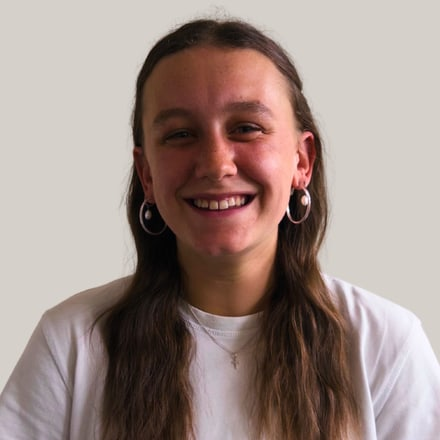
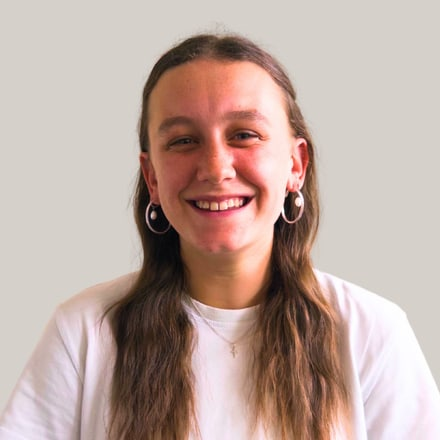
Students: two-column community groups, integrate Abi byline, tweaks
- Community Groups: move John & Lou's photo to the right of the text and
  CTA (two-column) instead of stacked/centred.
- Welcome: reintegrate Abi as a natural contact byline within the text
  (hairline divider, avatar, name/role, Message Abi) instead of a floating
  card; use the clearer headshot Abi supplied.
- Hero "Get in touch" now emails abi.hutchings@hopewinchester.org.

Claude-Session: https://claude.ai/code/session_017CLqbdnCD1PBAZn9zq6GB2

diff --git a/Hope Church Homepage Redesign/students.html b/Hope Church Homepage Redesign/students.html
@@ -85,7 +85,7 @@ a:hover{color:#0D1B3E}
     <p style="max-width: 600px; margin: 30px 0px 34px; font-size: 22px; line-height: 1.65; color: rgba(255, 255, 255, 0.88);">Every Friday evening during term time we meet at Hope Church — and we'd love you to join us.</p>
     <div style="display: flex; gap: 12px; flex-wrap: wrap;">
       <a href="https://www.instagram.com/hopewinchesterstudents/" target="_blank" rel="noopener noreferrer" class="scp0" style="background: rgb(255, 255, 255); color: rgb(13, 27, 62); padding: 16px 32px; border-radius: 999px; font-family: Inter; font-size: 18px; font-weight: 600; display: inline-flex; align-items: center; gap: 9px;"><svg width="19" height="19" viewBox="0 0 24 24" fill="none" stroke="#0D1B3E" stroke-width="1.7"><rect x="3" y="3" width="18" height="18" rx="5"></rect><circle cx="12" cy="12" r="4"></circle><circle cx="17.5" cy="6.5" r="1" fill="#0D1B3E" stroke="none"></circle></svg>Follow us</a>
-      <a href="#connect" class="scp1" style="background: transparent; color: rgb(255, 255, 255); padding: 15px 32px; border-radius: 999px; font-family: Inter; font-size: 18px; font-weight: 600; border: 1.5px solid rgba(255, 255, 255, 0.45);">Get in touch</a>
+      <a href="mailto:abi.hutchings@hopewinchester.org?subject=Hope%20Students" class="scp1" style="background: transparent; color: rgb(255, 255, 255); padding: 15px 32px; border-radius: 999px; font-family: Inter; font-size: 18px; font-weight: 600; border: 1.5px solid rgba(255, 255, 255, 0.45);">Get in touch</a>
     </div>
   </div></section><section style="background: rgb(63, 92, 170); padding: clamp(30px, 4vw, 44px) 40px;">
   <div data-grid3="" style="max-width: 1120px; margin: 0px auto; display: grid; grid-template-columns: repeat(3, 1fr); gap: 28px;">
@@ -109,19 +109,17 @@ a:hover{color:#0D1B3E}
       <p style="font-size: 20px; line-height: 1.7; color: rgb(91, 89, 85); margin-bottom: 18px;">Join our student community at Hope Church as we grow in faith, do life and journey with Jesus together. Whether you're at Winchester University, Winchester School of Art or Sparsholt — or you're not studying but are student-aged — we'd love you to come along.</p>
       <p style="font-size: 20px; line-height: 1.7; color: rgb(91, 89, 85);">Fridays are filled with games, worship, teaching and much more. However you find us, you'll find a warm welcome.</p>
       <a href="https://www.instagram.com/hopewinchesterstudents/" target="_blank" rel="noopener noreferrer" class="lift" style="margin-top: 30px; display: inline-flex; align-items: center; gap: 10px; background: rgb(13, 27, 62); color: rgb(255, 255, 255); padding: 15px 32px; border-radius: 999px; font-family: Inter; font-size: 17px; font-weight: 600;">Learn more<svg width="18" height="18" viewBox="0 0 24 24" fill="none" stroke="#fff" stroke-width="2" stroke-linecap="round" stroke-linejoin="round"><line x1="5" y1="12" x2="19" y2="12"></line><polyline points="12 5 19 12 12 19"></polyline></svg></a>
-    </div>
-    <div data-reveal="" style="border-radius: 20px; overflow: hidden; aspect-ratio: 4 / 5; opacity: 1; transform: none;"><picture><source type="image/webp" srcset="assets/students/students-welcome.webp"><img src="assets/students/students-welcome.jpg" alt="Students gathering over food together outdoors" style="width: 100%; height: 100%; object-fit: cover;" loading="lazy" decoding="async"></picture></div>
-  </div>
-    <div data-reveal="" style="max-width: 1200px; margin: 52px auto 0px; opacity: 1; transform: none;">
-      <div style="background: rgb(255, 255, 255); border: 1px solid rgba(35, 34, 32, 0.1); border-radius: 18px; padding: 26px 30px; display: flex; gap: 24px; align-items: center; max-width: 560px;">
-        <picture><source type="image/webp" srcset="assets/students/abi.webp"><img src="assets/students/abi.jpg" alt="Abi Hutchings" style="width: 108px; height: 108px; border-radius: 999px; object-fit: cover; flex-shrink: 0; background: rgb(244, 235, 225);" loading="lazy" decoding="async"></picture>
+      <div style="margin-top: 38px; padding-top: 28px; border-top: 1px solid rgba(35, 34, 32, 0.14); display: flex; align-items: center; gap: 18px;">
+        <picture><source type="image/webp" srcset="assets/students/abi.webp"><img src="assets/students/abi.jpg" alt="Abi Hutchings" style="width: 68px; height: 68px; border-radius: 999px; object-fit: cover; flex-shrink: 0;" loading="lazy" decoding="async"></picture>
         <div>
-          <h3 style="font-family: Inter; font-weight: 500; font-size: 23px; color: rgb(13, 27, 62); margin-bottom: 5px;">Abi Hutchings</h3>
-          <div style="font-family: Inter; font-size: 14px; font-weight: 600; letter-spacing: 0.06em; text-transform: uppercase; color: rgb(63, 92, 170); margin-bottom: 12px;">Communications &amp; Student Ministry Assistant</div>
-          <a href="mailto:abi.hutchings@hopewinchester.org?subject=Hope%20Students%20enquiry" class="scp2" style="font-family: Inter; font-size: 16px; font-weight: 600; color: rgb(63, 92, 170); display: inline-flex; gap: 6px;">Message Abi →</a>
+          <div style="font-family: Inter; font-size: 18px; font-weight: 600; color: rgb(13, 27, 62); line-height: 1.2;">Abi Hutchings</div>
+          <div style="font-family: Inter; font-size: 14px; color: rgb(91, 89, 85); margin: 3px 0px 7px;">Communications &amp; Student Ministry Assistant</div>
+          <a href="mailto:abi.hutchings@hopewinchester.org?subject=Hope%20Students%20enquiry" class="scp2" style="font-family: Inter; font-size: 15px; font-weight: 600; color: rgb(63, 92, 170); display: inline-flex; gap: 6px;">Message Abi →</a>
         </div>
       </div>
     </div>
+    <div data-reveal="" style="border-radius: 20px; overflow: hidden; aspect-ratio: 4 / 5; opacity: 1; transform: none;"><picture><source type="image/webp" srcset="assets/students/students-welcome.webp"><img src="assets/students/students-welcome.jpg" alt="Students gathering over food together outdoors" style="width: 100%; height: 100%; object-fit: cover;" loading="lazy" decoding="async"></picture></div>
+  </div>
   </section><section style="background: rgb(13, 27, 62); padding: clamp(72px, 10vw, 116px) 40px;">
   <div style="max-width: 1280px; margin: 0px auto;">
     <div data-reveal="" style="max-width: 720px; margin-bottom: 48px; opacity: 1; transform: none;">
@@ -175,17 +173,19 @@ a:hover{color:#0D1B3E}
     </div>
     <div data-reveal="" style="text-align: center; margin-top: 46px; opacity: 1; transform: none;"><a href="whats-on.html" class="lift" style="display: inline-flex; align-items: center; gap: 10px; background: rgb(255, 255, 255); color: rgb(13, 27, 62); padding: 15px 34px; border-radius: 999px; font-family: Inter; font-size: 17px; font-weight: 600;">See the full church calendar<svg width="18" height="18" viewBox="0 0 24 24" fill="none" stroke="#0D1B3E" stroke-width="2" stroke-linecap="round" stroke-linejoin="round"><line x1="5" y1="12" x2="19" y2="12"></line><polyline points="12 5 19 12 12 19"></polyline></svg></a></div>
   </div></section><section style="background: rgb(63, 92, 170); padding: clamp(72px, 10vw, 116px) 40px;">
-  <div data-reveal="" style="max-width: 820px; margin: 0px auto; text-align: center; opacity: 1; transform: none;">
-    <div style="font-family: Inter; font-size: 15px; font-weight: 600; letter-spacing: 0.2em; text-transform: uppercase; color: rgba(255, 255, 255, 0.8); margin-bottom: 18px;">Community Groups</div>
-    <h2 style="font-family: Inter; font-weight: 200; font-size: clamp(34px, 4.6vw, 56px); line-height: 0.98; letter-spacing: -0.03em; color: rgb(255, 255, 255); margin-bottom: 24px;">A home away from home</h2>
-    <p style="font-family: Inter; font-size: 20px; line-height: 1.65; color: rgba(255, 255, 255, 0.85); margin-bottom: 36px;">Fridays aren't the only way to belong. Right across the city, our Community Groups meet through the week to share meals, pray and open the Bible together. They're a brilliant way to do life with people of all ages and life stages — a wider church family who'll know you, cheer you on and support you while you're away from home.</p>
-    <div style="max-width: 300px; margin: 0px auto 30px;">
-      <div style="border-radius: 18px; overflow: hidden; aspect-ratio: 3 / 2; box-shadow: rgba(9, 16, 36, 0.35) 0px 18px 40px -20px;"><picture><source type="image/webp" srcset="assets/team/john-lou.webp"><img src="assets/team/john-lou.jpg" alt="John and Lou Crossland" style="width: 100%; height: 100%; object-fit: cover;" loading="lazy" decoding="async"></picture></div>
-      <div style="font-family: Inter; font-size: 15px; font-weight: 600; color: rgb(255, 255, 255); margin-top: 14px;">John &amp; Lou Crossland</div>
-      <div style="font-family: Inter; font-size: 14px; color: rgba(255, 255, 255, 0.72);">They oversee our Community Groups</div>
+  <div data-reveal="" data-grid2="" style="max-width: 1080px; margin: 0px auto; display: grid; grid-template-columns: 1.05fr 0.95fr; gap: clamp(40px, 6vw, 72px); align-items: center; opacity: 1; transform: none;">
+    <div>
+      <div style="font-family: Inter; font-size: 15px; font-weight: 600; letter-spacing: 0.2em; text-transform: uppercase; color: rgba(255, 255, 255, 0.8); margin-bottom: 18px;">Community Groups</div>
+      <h2 style="font-family: Inter; font-weight: 200; font-size: clamp(34px, 4.6vw, 54px); line-height: 0.98; letter-spacing: -0.03em; color: rgb(255, 255, 255); margin-bottom: 22px;">A home away from home</h2>
+      <p style="font-family: Inter; font-size: 20px; line-height: 1.65; color: rgba(255, 255, 255, 0.85); margin-bottom: 32px; max-width: 48ch;">Fridays aren't the only way to belong. Right across the city, our Community Groups meet through the week to share meals, pray and open the Bible together. They're a brilliant way to do life with people of all ages and life stages — a wider church family who'll know you, cheer you on and support you while you're away from home.</p>
+      <a href="mailto:communitygroups@hopewinchester.org" class="lift" style="align-self: flex-start; display: inline-flex; align-items: center; gap: 10px; background: rgb(255, 255, 255); color: rgb(13, 27, 62); padding: 15px 32px; border-radius: 999px; font-family: Inter; font-size: 17px; font-weight: 600;">Reach out to John &amp; Lou<svg width="18" height="18" viewBox="0 0 24 24" fill="none" stroke="#0D1B3E" stroke-width="2" stroke-linecap="round" stroke-linejoin="round"><line x1="5" y1="12" x2="19" y2="12"></line><polyline points="12 5 19 12 12 19"></polyline></svg></a>
+      <div style="font-family: Inter; font-size: 15px; color: rgba(255, 255, 255, 0.7); margin-top: 16px;">They'll help you find the Community Groups local to your area.</div>
     </div>
-    <a href="mailto:communitygroups@hopewinchester.org" class="lift" style="display: inline-flex; align-items: center; gap: 10px; background: rgb(255, 255, 255); color: rgb(13, 27, 62); padding: 15px 32px; border-radius: 999px; font-family: Inter; font-size: 17px; font-weight: 600;">Reach out to John &amp; Lou<svg width="18" height="18" viewBox="0 0 24 24" fill="none" stroke="#0D1B3E" stroke-width="2" stroke-linecap="round" stroke-linejoin="round"><line x1="5" y1="12" x2="19" y2="12"></line><polyline points="12 5 19 12 12 19"></polyline></svg></a>
-    <div style="font-family: Inter; font-size: 15px; color: rgba(255, 255, 255, 0.7); margin-top: 16px;">They'll help you find the Community Groups local to your area.</div>
+    <div>
+      <div style="border-radius: 20px; overflow: hidden; aspect-ratio: 3 / 2; box-shadow: rgba(9, 16, 36, 0.4) 0px 24px 50px -24px;"><picture><source type="image/webp" srcset="assets/team/john-lou.webp"><img src="assets/team/john-lou.jpg" alt="John and Lou Crossland" style="width: 100%; height: 100%; object-fit: cover;" loading="lazy" decoding="async"></picture></div>
+      <div style="font-family: Inter; font-size: 16px; font-weight: 600; color: rgb(255, 255, 255); margin-top: 16px;">John &amp; Lou Crossland</div>
+      <div style="font-family: Inter; font-size: 14px; color: rgba(255, 255, 255, 0.72); margin-top: 2px;">They oversee our Community Groups</div>
+    </div>
   </div></section><section style="background: rgb(244, 235, 225); padding: clamp(72px, 10vw, 116px) 40px;">
   <div data-reveal="" data-grid2="" style="max-width: 1080px; margin: 0px auto; display: grid; grid-template-columns: 0.85fr 1fr; gap: 0px; background: rgb(13, 27, 62); border-radius: 24px; overflow: hidden; opacity: 1; transform: none;">
     <div style="overflow: hidden; min-height: 300px;"><picture><source type="image/webp" srcset="assets/students/students-weekend.webp"><img src="assets/students/students-weekend.jpg" alt="Tile Barn Centre in the New Forest on a frosty morning" style="width: 100%; height: 100%; object-fit: cover;" loading="lazy" decoding="async"></picture></div>
